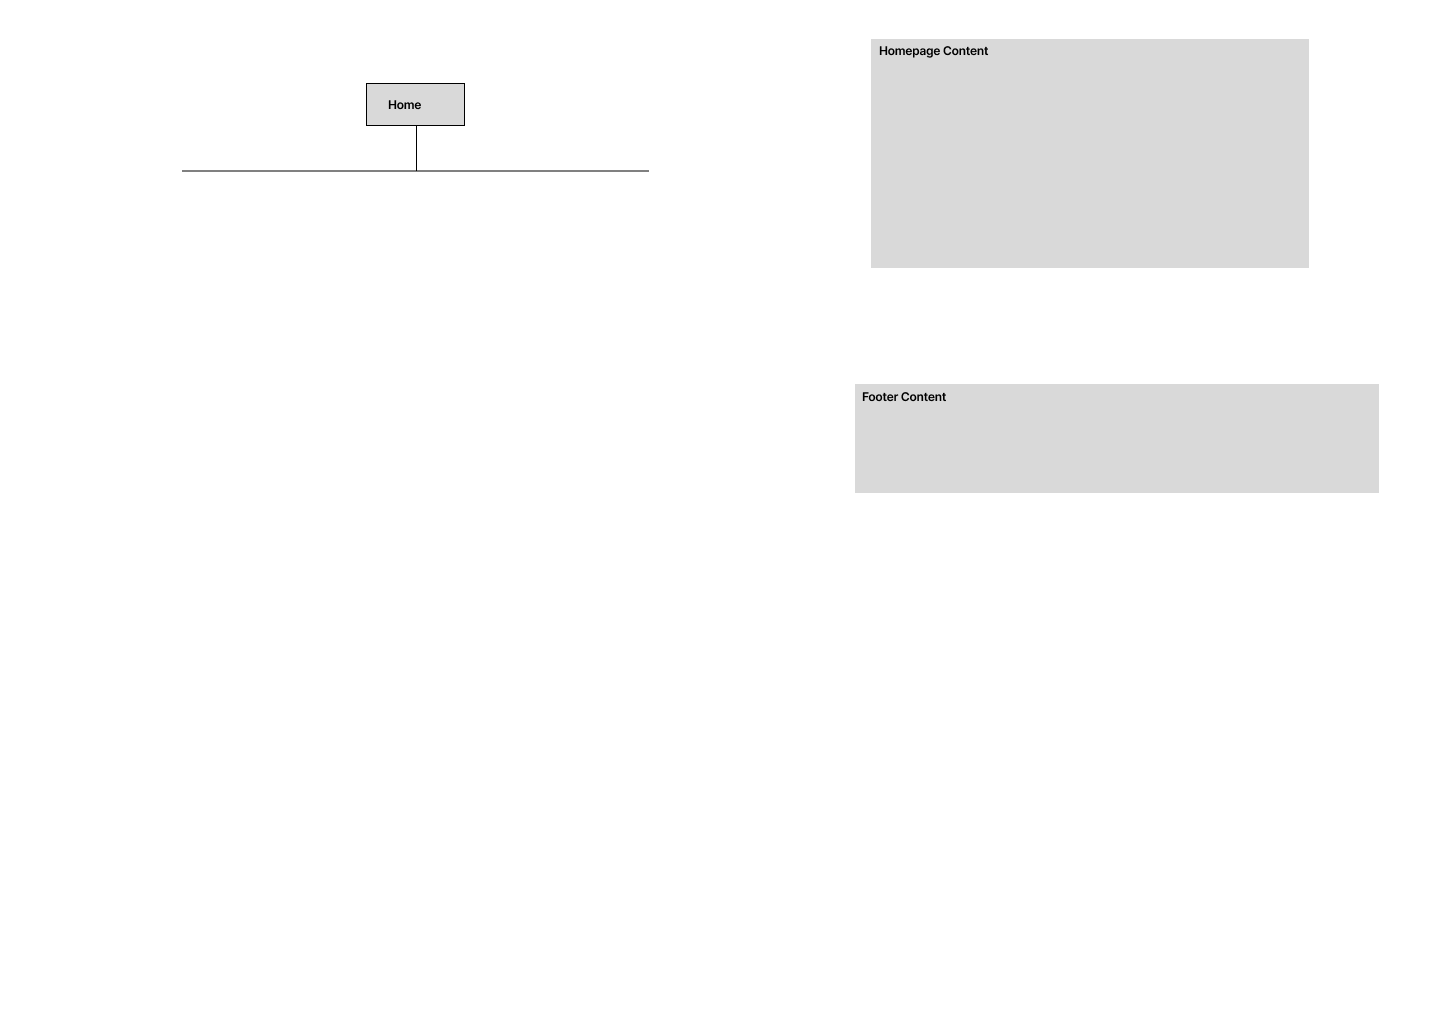
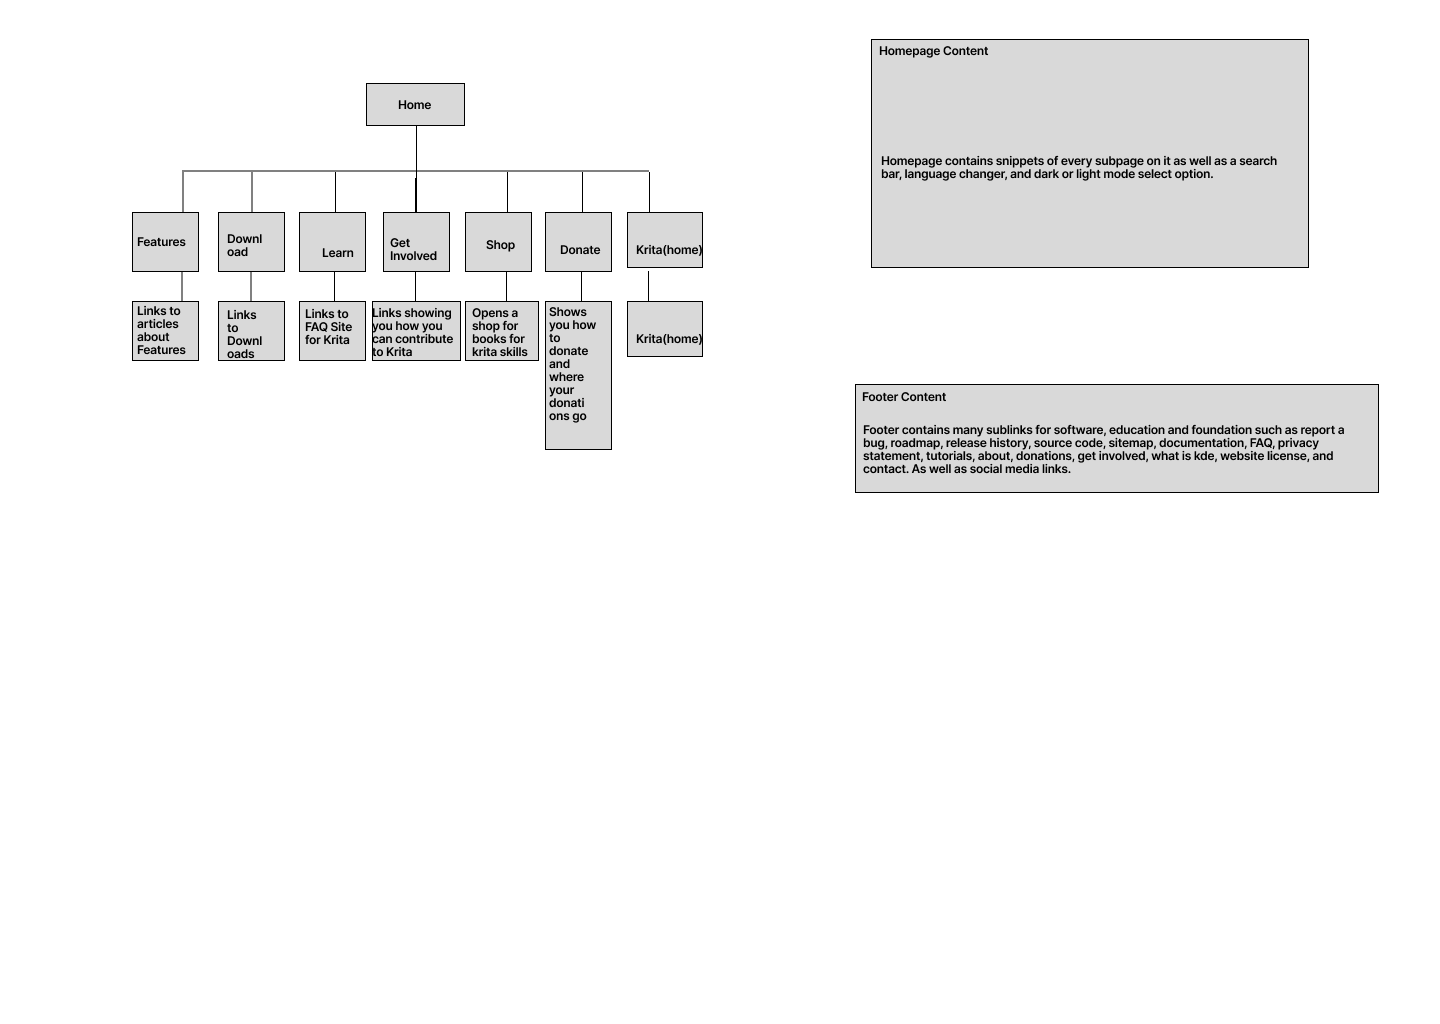
Sitemap

Changed region(s): [[0.0938, 0.1875, 0.5, 0.4375], [0.5938, 0.4062, 0.9375, 0.4688], [0.5938, 0.1562, 0.875, 0.1875]]

diff --git a/process/sitemap.html b/process/sitemap.html
@@ -5,7 +5,7 @@
     <title></title>
 </head>
 <body>
-    <h3>Scree</h3>
+    <h3><a href="https://krita.org/en/">Krita Website Sitemap</a></h3>
     <img src="img/sitemap.png" alt="The screen shot of the website">
 </body>
 </html>
